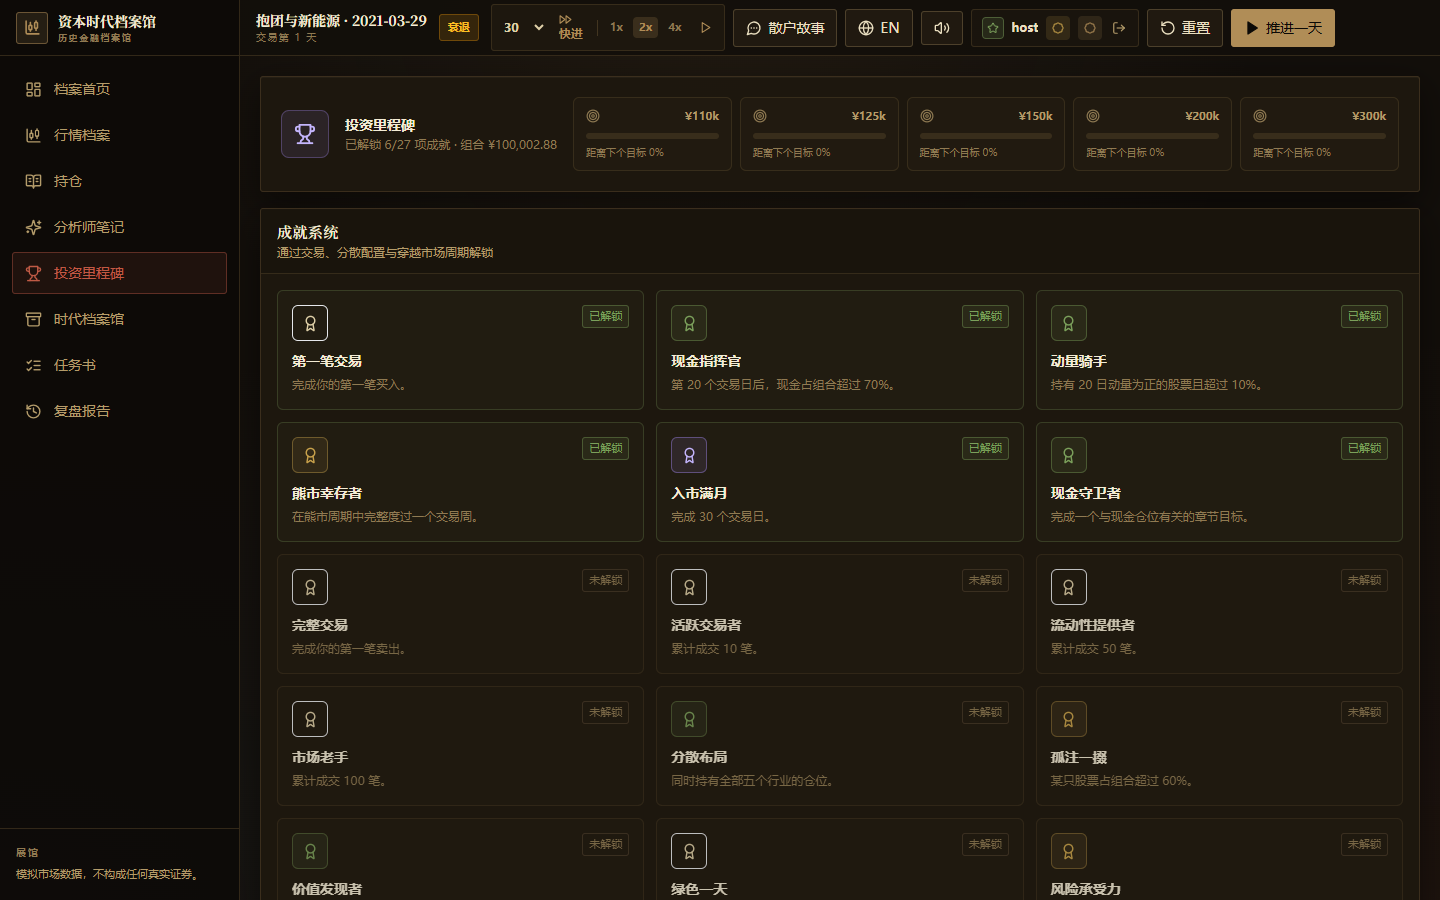
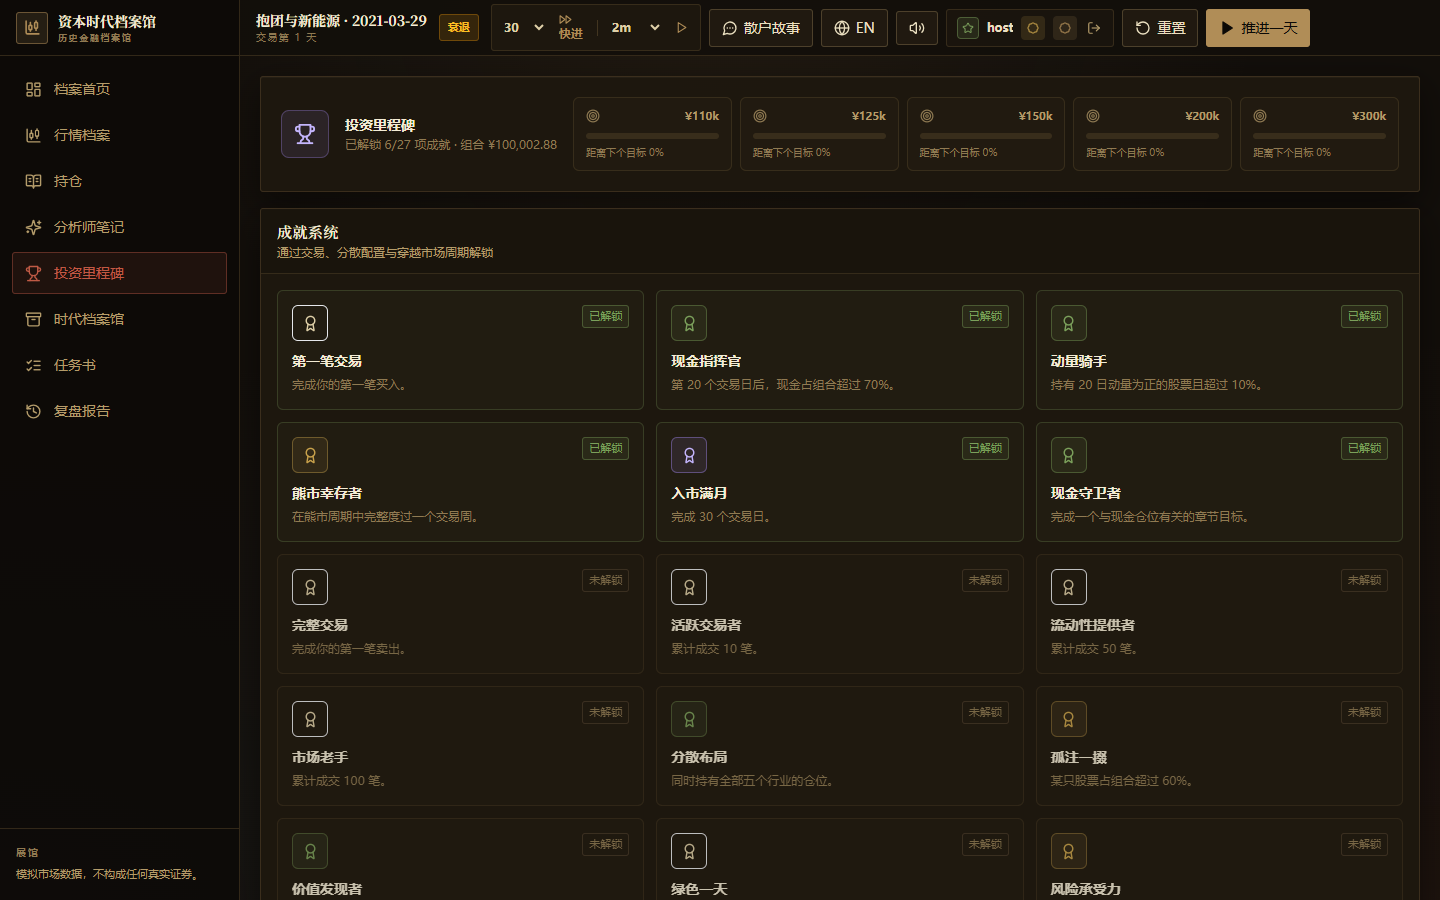
Rework auto play into per-trading-day pacing with intraday ticks

Changed region(s): [[0.5, 0.0, 0.75, 0.0622], [0.7812, 0.0, 0.9375, 0.0622], [0.4375, 0.0, 0.4688, 0.0622]]

diff --git a/frontend/src/components/market/MarketView.jsx b/frontend/src/components/market/MarketView.jsx
@@ -1,4 +1,4 @@
-import { useMemo, useState } from "react";
+import { useEffect, useMemo, useState } from "react";
 import { Newspaper, Search } from "lucide-react";
 
 import { useApp } from "../../store/AppContext.jsx";
@@ -33,8 +33,10 @@ export default function MarketView() {
     transactions,
     gameState,
     t,
+    autoPlay,
   } = useApp();
   const [search, setSearch] = useState("");
+  const [intradayPrice, setIntradayPrice] = useState(0);
   const [industry, setIndustry] = useState("all");
   const [sortKey, setSortKey] = useState("ticker");
 
@@ -81,6 +83,23 @@ export default function MarketView() {
     markers.sort((a, b) => (a.time < b.time ? -1 : 1));
     return markers;
   }, [quote, history, transactions, gameState]);
+
+  useEffect(() => {
+    setIntradayPrice(quote?.price || 0);
+  }, [quote?.price]);
+
+  useEffect(() => {
+    if (!autoPlay) return undefined;
+    const timer = window.setInterval(() => {
+      setIntradayPrice((current) => {
+        const base = quote?.price || current;
+        const band = base * 0.02;
+        const next = current + (Math.random() - 0.5) * base * 0.004;
+        return Math.max(base - band, Math.min(base + band, next));
+      });
+    }, 1500);
+    return () => window.clearInterval(timer);
+  }, [autoPlay, quote?.price]);
 
   return (
     <div className="grid h-full grid-cols-1 gap-4 p-4 lg:grid-cols-[minmax(0,1fr)_400px] lg:p-5">
@@ -201,7 +220,14 @@ export default function MarketView() {
                   </div>
                 </div>
                 <div className="text-right">
-                  <p className="text-xl font-bold tabular text-parch-100">{money(quote.price)}</p>
+                  <div className="flex items-center justify-end gap-2">
+                    <p className="text-xl font-bold tabular text-parch-100">{money(quote.price)}</p>
+                    {autoPlay ? (
+                      <span className="rounded-[3px] border border-brass/40 bg-brass/10 px-1.5 py-0.5 text-[10px] font-semibold tabular text-brass">
+                        {t("market.intraday")} {money(intradayPrice)}
+                      </span>
+                    ) : null}
+                  </div>
                   <p className={`text-xs font-semibold tabular ${toneClass(quote.change_pct)}`}>
                     {quote.change_pct > 0 ? "+" : ""}{quote.change_pct.toFixed(2)}% {t("market.today")}
                   </p>

diff --git a/frontend/src/store/AppContext.jsx b/frontend/src/store/AppContext.jsx
@@ -73,7 +73,9 @@ export function AppProvider({ children }) {
     () => localStorage.getItem("cms-muted") === "1"
   );
   const [autoPlay, setAutoPlay] = useState(false);
-  const [autoSpeed, setAutoSpeed] = useState(2);
+  const [dayMinutes, setDayMinutes] = useState(2);
+  const [countdown, setCountdown] = useState(0);
+  const nextAdvanceAtRef = useRef(0);
   const toastId = useRef(0);
   const achievementsRef = useRef(null);
   const didInit = useRef(false);
@@ -451,7 +453,9 @@ export function AppProvider({ children }) {
 
   useEffect(() => {
     if (!autoPlay) return undefined;
-    const timer = window.setInterval(() => {
+    const dayMs = dayMinutes * 60000;
+    nextAdvanceAtRef.current = Date.now() + dayMs;
+    const tick = () => {
       if (
         busy ||
         storyOpen ||
@@ -462,12 +466,24 @@ export function AppProvider({ children }) {
       ) {
         return;
       }
-      advanceDay(1, { silent: true });
-    }, 3000 / autoSpeed);
-    return () => window.clearInterval(timer);
+      advanceDay(1, { silent: true }).finally(() => {
+        nextAdvanceAtRef.current = Date.now() + dayMs;
+      });
+    };
+    const main = window.setInterval(tick, dayMs);
+    const counter = window.setInterval(() => {
+      setCountdown(
+        Math.max(0, Math.round((nextAdvanceAtRef.current - Date.now()) / 1000))
+      );
+    }, 500);
+    return () => {
+      window.clearInterval(main);
+      window.clearInterval(counter);
+      setCountdown(0);
+    };
   }, [
     autoPlay,
-    autoSpeed,
+    dayMinutes,
     busy,
     storyOpen,
     chronicleOpen,
@@ -585,9 +601,10 @@ export function AppProvider({ children }) {
       muted,
       toggleMute,
       autoPlay,
-      autoSpeed,
+      dayMinutes,
+      setDayMinutes,
+      countdown,
       toggleAutoPlay,
-      setAutoSpeed,
       resolveBlackSwanOption,
       applyEraBonus,
       openStory,
@@ -641,9 +658,10 @@ export function AppProvider({ children }) {
       muted,
       toggleMute,
       autoPlay,
-      autoSpeed,
+      dayMinutes,
+      setDayMinutes,
+      countdown,
       toggleAutoPlay,
-      setAutoSpeed,
       resolveBlackSwanOption,
       applyEraBonus,
       openStory,

diff --git a/frontend/src/components/layout/AppShell.jsx b/frontend/src/components/layout/AppShell.jsx
@@ -99,9 +99,10 @@ function TopBar() {
     muted,
     toggleMute,
     autoPlay,
-    autoSpeed,
+    dayMinutes,
+    setDayMinutes,
+    countdown,
     toggleAutoPlay,
-    setAutoSpeed,
   } = useApp();
   const [fastDays, setFastDays] = useState(30);
   const market = gameState?.market;
@@ -158,20 +159,24 @@ function TopBar() {
                 <span className="hidden xl:inline">{t("topbar.fastForward")}</span>
               </button>
               <span className="mx-0.5 h-4 w-px bg-ink-600" />
-              {[1, 2, 4].map((speed) => (
-                <button
-                  key={speed}
-                  onClick={() => setAutoSpeed(speed)}
-                  className={`rounded px-1.5 py-0.5 text-[11px] font-semibold tabular transition-colors ${
-                    autoSpeed === speed
-                      ? "bg-brass/20 text-brass"
-                      : "text-parch-600 hover:text-parch-300"
-                  }`}
-                  title={t("topbar.autoSpeed")}
-                >
-                  {speed}x
-                </button>
-              ))}
+              <select
+                value={dayMinutes}
+                onChange={(event) => setDayMinutes(Number(event.target.value))}
+                className="bg-transparent px-1 py-0.5 text-xs font-semibold tabular text-parch-300 outline-none"
+                title={t("topbar.dayLength")}
+              >
+                {[0.5, 1, 2].map((minutes) => (
+                  <option key={minutes} value={minutes} className="bg-ink-800">
+                    {minutes}m
+                  </option>
+                ))}
+              </select>
+              {autoPlay ? (
+                <span className="rounded bg-brass/15 px-1.5 py-0.5 text-[11px] font-semibold tabular text-brass">
+                  {String(Math.floor(countdown / 60)).padStart(2, "0")}:
+                  {String(countdown % 60).padStart(2, "0")}
+                </span>
+              ) : null}
               <button
                 onClick={toggleAutoPlay}
                 className={`rounded px-2 py-1 transition-colors ${

diff --git a/frontend/src/i18n/translations.js b/frontend/src/i18n/translations.js
@@ -27,7 +27,7 @@ export const translations = {
     "topbar.soundOff": "Sound off",
     "topbar.auto": "Auto play",
     "topbar.autoStop": "Stop",
-    "topbar.autoSpeed": "Auto speed",
+    "topbar.dayLength": "Minutes per trading day",
     "topbar.advanceTitle": "Simulate one trading day",
     "topbar.running": "Running…",
     "topbar.resetConfirm": "Reset the market and start again with ¥100,000?",
@@ -272,6 +272,7 @@ export const translations = {
     "market.quoteHigh52": "52w high",
     "market.quoteLow52": "52w low",
     "market.quoteMom": "20d momentum",
+    "market.intraday": "Intraday",
     "market.quoteEps": "EPS est",
     "market.quoteNext": "Next earnings",
     "market.quoteSurprise": "Last surprise",
@@ -474,7 +475,7 @@ export const translations = {
     "topbar.soundOff": "关闭音效",
     "topbar.auto": "自动推进",
     "topbar.autoStop": "停止",
-    "topbar.autoSpeed": "自动速度",
+    "topbar.dayLength": "每个交易日的分钟数",
     "topbar.advanceTitle": "模拟一个交易日",
     "topbar.running": "运行中…",
     "topbar.resetConfirm": "确定要重置市场，并以 ¥100,000 重新开始吗？",
@@ -719,6 +720,7 @@ export const translations = {
     "market.quoteHigh52": "52周最高",
     "market.quoteLow52": "52周最低",
     "market.quoteMom": "20日动量",
+    "market.intraday": "盘中",
     "market.quoteEps": "EPS 预估",
     "market.quoteNext": "下次财报",
     "market.quoteSurprise": "上次惊喜",

diff --git a/README.md b/README.md
@@ -52,8 +52,9 @@ Every price move is real history, replayed day by day.
   moments
 - **Judgment validation**: tag each buy with a thesis; the market later rules
   it right or wrong with a golden toast or a face-slap, building a seer streak
-- **Auto play**: a countdown-driven live market mode with 1x/2x/4x speed, so a
-  fast run takes about 10-15 minutes and events pause the action
+- **Auto play**: a countdown-driven live market mode where each trading day
+  lasts 0.5-2 minutes (default 2), one week takes about 10 minutes, intraday
+  prices tick live, and events pause the action
 - **Newspaper earnings & policy wires**: giant-company earnings open as a
   Capital Daily front page, and policy/international shocks join the black swan
   pool from 2021 to 2026
